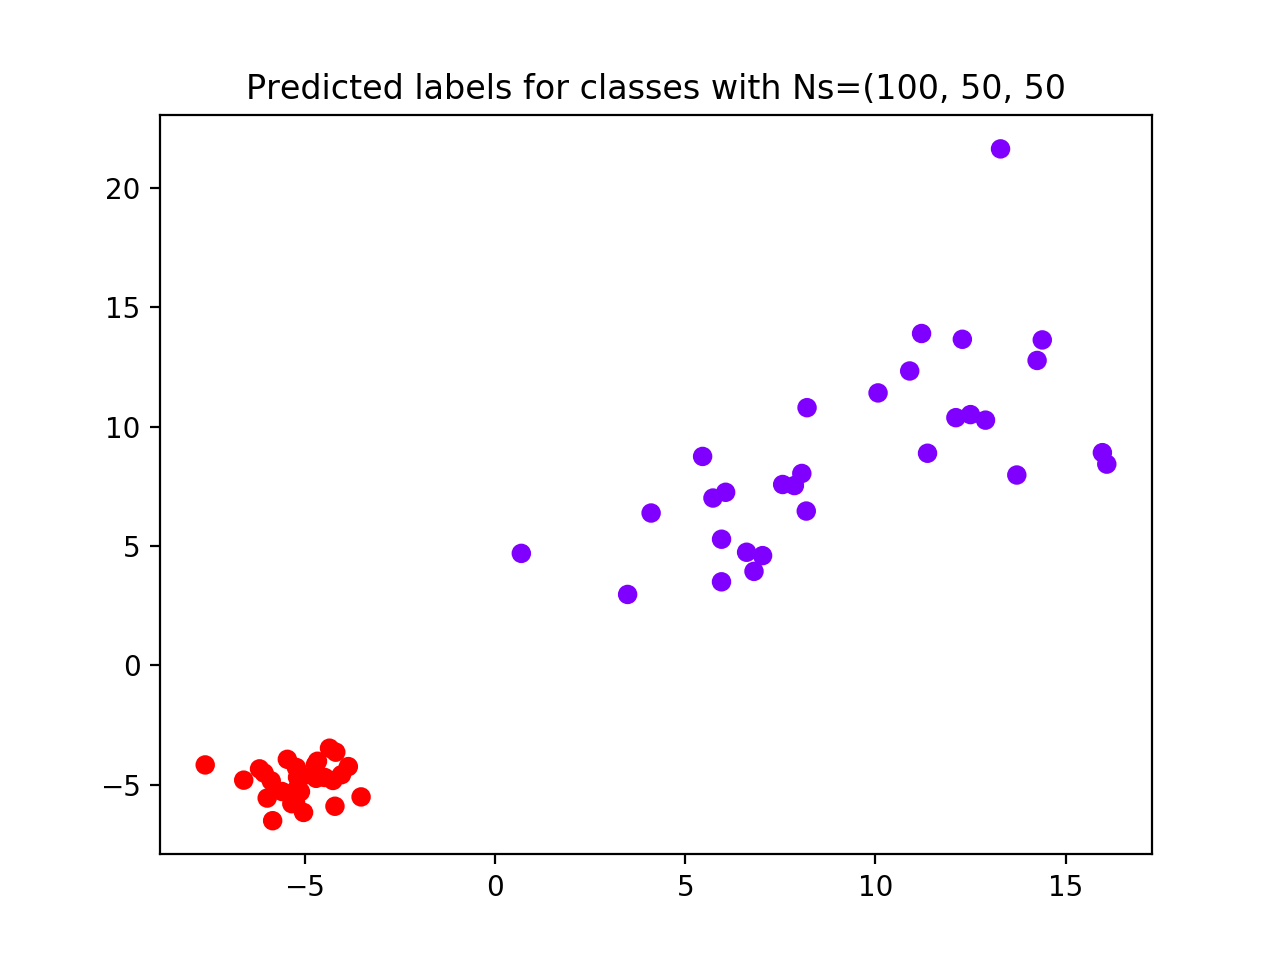
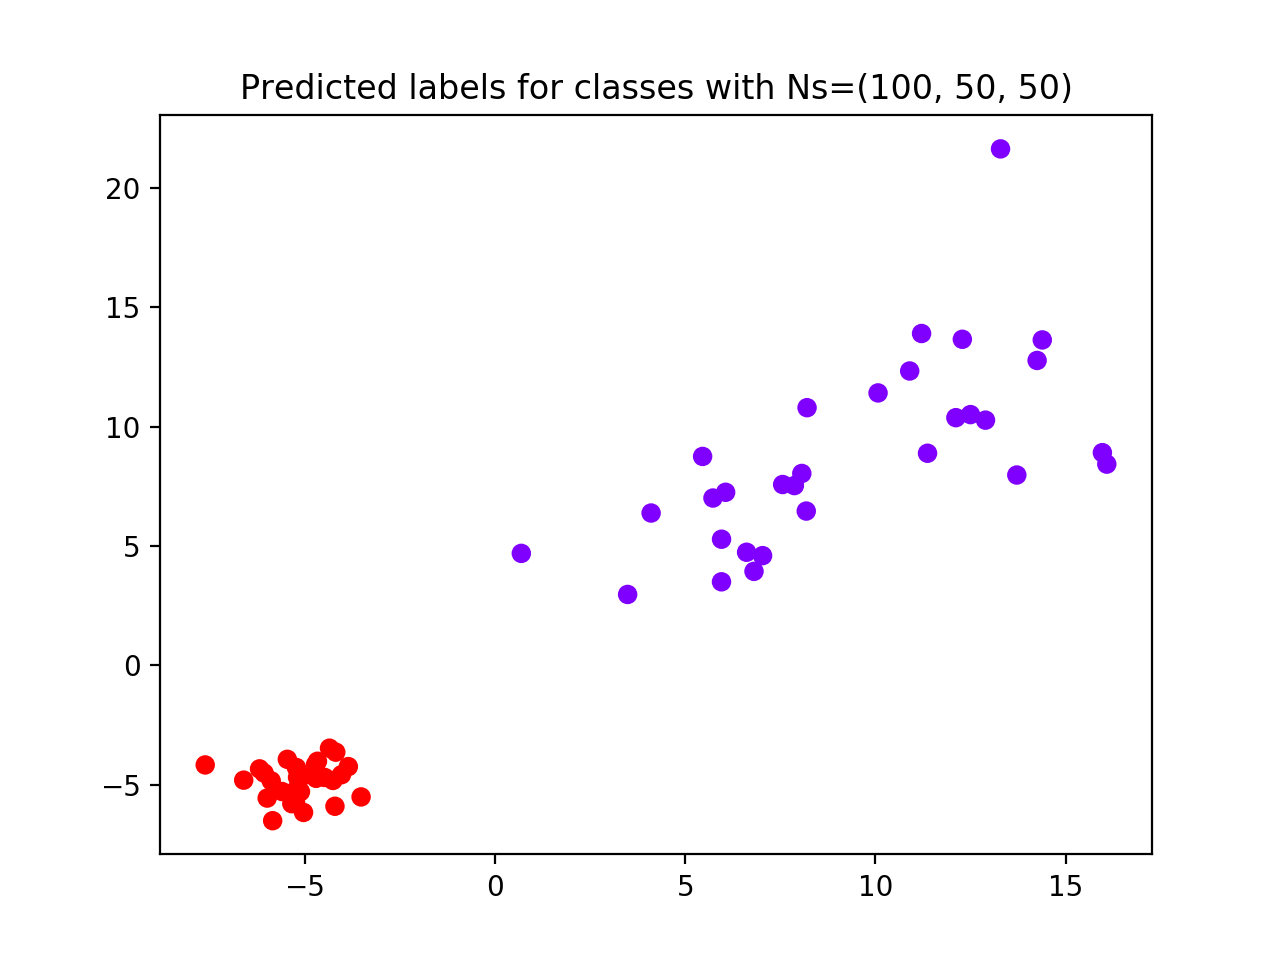
modified docs

Changed region(s): [[0.1875, 0.0625, 0.8438, 0.125]]

diff --git a/docs/build/html/datadimension.html b/docs/build/html/datadimension.html
@@ -312,7 +312,7 @@ hierarchical clustering, number of clusters ranging from 2 to 6, and 100 random 
             <span class="n">c</span><span class="o">=</span><span class="n">_kuhn_munkres_algorithm</span><span class="p">(</span><span class="n">np</span><span class="o">.</span><span class="n">array</span><span class="p">(</span><span class="n">y_ts</span><span class="p">),</span>
                                       <span class="n">out</span><span class="o">.</span><span class="n">test_cllab</span><span class="p">),</span>
             <span class="n">cmap</span><span class="o">=</span><span class="s1">&#39;rainbow_r&#39;</span><span class="p">)</span>
-<span class="n">plt</span><span class="o">.</span><span class="n">title</span><span class="p">(</span><span class="sa">f</span><span class="s1">&#39;Predicted labels for classes with Ns=(100, 50, 50&#39;</span><span class="p">)</span>
+<span class="n">plt</span><span class="o">.</span><span class="n">title</span><span class="p">(</span><span class="sa">f</span><span class="s1">&#39;Predicted labels for classes with Ns=(100, 50, 50)&#39;</span><span class="p">)</span>
 </pre></div>
 </div>
 <p>Result reports 2 as the best clustering solution (see performance plot and scatterplot). Groups 2 and 3, i.e., with
@@ -359,7 +359,7 @@ and we rerun the algorithm with the same parameters.</p>
             <span class="n">c</span><span class="o">=</span><span class="n">_kuhn_munkres_algorithm</span><span class="p">(</span><span class="n">np</span><span class="o">.</span><span class="n">array</span><span class="p">(</span><span class="n">y_ts</span><span class="p">),</span>
                                       <span class="n">out</span><span class="o">.</span><span class="n">test_cllab</span><span class="p">),</span>
             <span class="n">cmap</span><span class="o">=</span><span class="s1">&#39;rainbow_r&#39;</span><span class="p">)</span>
-<span class="n">plt</span><span class="o">.</span><span class="n">title</span><span class="p">(</span><span class="sa">f</span><span class="s1">&#39;Predicted labels for classes with Ns=(100, 500, 500&#39;</span><span class="p">)</span>
+<span class="n">plt</span><span class="o">.</span><span class="n">title</span><span class="p">(</span><span class="sa">f</span><span class="s1">&#39;Predicted labels for classes with Ns=(100, 500, 500)&#39;</span><span class="p">)</span>
 
 <span class="c1"># Performance scores</span>
 <span class="c1"># Test set ACC</span>

diff --git a/docs/source/datadimension.rst b/docs/source/datadimension.rst
@@ -186,7 +186,7 @@ hierarchical clustering, number of clusters ranging from 2 to 6, and 100 random 
                 c=_kuhn_munkres_algorithm(np.array(y_ts),
                                           out.test_cllab),
                 cmap='rainbow_r')
-    plt.title(f'Predicted labels for classes with Ns=(100, 50, 50')
+    plt.title(f'Predicted labels for classes with Ns=(100, 50, 50)')
 
 Result reports 2 as the best clustering solution (see performance plot and scatterplot). Groups 2 and 3, i.e., with
 least number of subjects and higher standard deviation, are considered as a unique group by the algorithm.
@@ -242,7 +242,7 @@ and we rerun the algorithm with the same parameters.
                 c=_kuhn_munkres_algorithm(np.array(y_ts),
                                           out.test_cllab),
                 cmap='rainbow_r')
-    plt.title(f'Predicted labels for classes with Ns=(100, 500, 500')
+    plt.title(f'Predicted labels for classes with Ns=(100, 500, 500)')
 
     # Performance scores
     # Test set ACC
